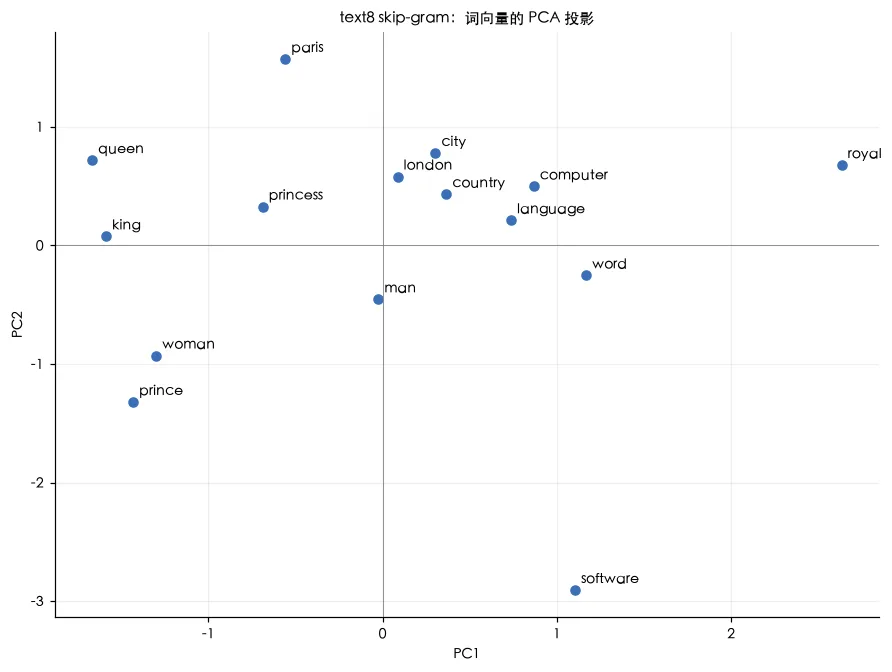
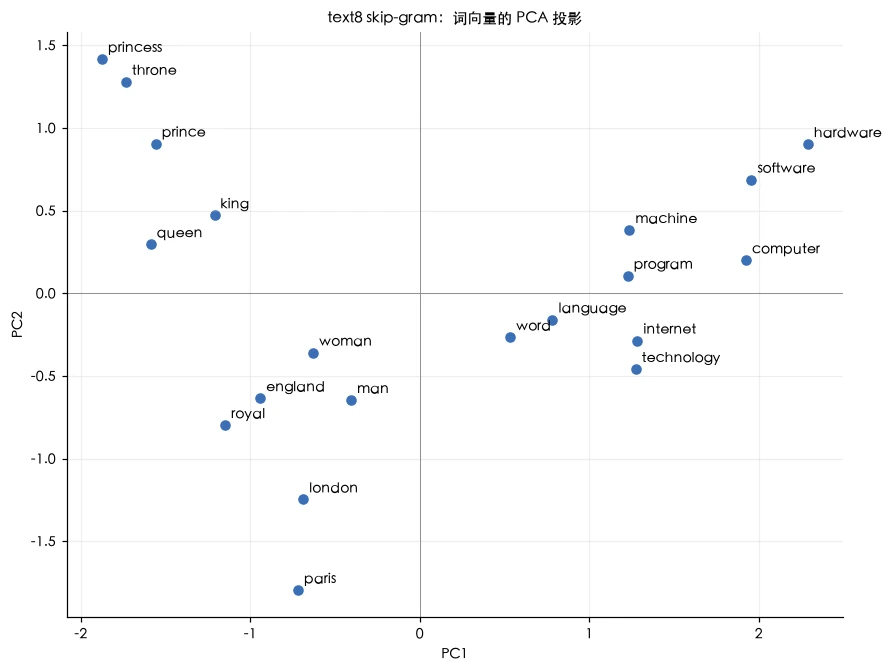
重训 Embedding 案例并更新系列资料
- 使用完整 text8 重训 Word2Vec，并同步文章、总纲、recap 与 slides
- 修正 RNN 序数引用并删除重复锚点

diff --git a/_posts/2026-03-29-deep-learning-foundations-series-recap-and-self-test.md b/_posts/2026-03-29-deep-learning-foundations-series-recap-and-self-test.md
@@ -44,7 +44,7 @@ flowchart TB
 | [第四篇：优化器](/optimizers-from-sgd-to-adamw.html) | Adam 的两个矩各做什么？AdamW 与 $$L_2$$ 为什么不一样？warmup 为什么不能省？batch 变大学习率怎么变？ | Adam 让每个参数步长 $$\approx \eta$$、与梯度大小无关，因此第一步是满步长 $$\eta \cdot \text{sign}(g)$$、必须 warmup<br/>$$L_2$$ 被 $$1/\sqrt{v}$$ 缩放而 AdamW 不被<br/>线性 scaling 在临界 batch 内成立<br/>裁剪限制步长上界 | Momentum 有效学习率 $$\times 1/(1-\beta)$$<br/>$$\beta_2 = 0.95$$ 记 20 步<br/>8 字节 / 参数，Llama-3-8B 64 GB，16 字节里的 12<br/>$$\lVert W_1 \rVert$$ 22.6 → 2.3、95.6% → 86.2%<br/>warmup：4.59 对 1.26<br/>scaling 到 512 成立、2048 发散<br/>裁剪 1.0 |
 | [第五篇：正则化与泛化](/regularization-and-generalization.html) | 参数是样本几百倍的网络为什么不过拟合？什么数据规模、多少 epoch 后会？怎么提前看到？ | 先算参数 / 数据比定体制<br/>过参数化时优化器挑最小范数、平坦、先学简单的解——隐式正则化<br/>double descent 越过插值阈值再变好<br/>预训练在数据体制里不用 dropout、一个 epoch<br/>SFT 与奖励模型把模型放回过参数化体制 | $$N/D$$：预训练 0.0005、SFT 1600、RM 160、实验 407<br/>宽度 8 测试 loss 5.48、2048 最好 14.5%<br/>wd 把 0.55 压到 0.42，dropout 0.62<br/>重复 4 epoch 以内几乎无损<br/>2 万字符第 16 epoch 拐点、记忆率 10%，20 万第 8 epoch，200 万未到 |
 | [第六篇：CNN](/cnn-from-lenet-to-resnet-and-vit.html) | 卷积的局部连接与权重共享解决什么？ResNet 如何让网络加深，ViT 又为何能去掉卷积？ | 卷积把局部性和平移等变性写进结构；残差让深度增加后仍可训练；数据足够时，ViT 可以从 patch token 学习空间关系 | plain-56 loss 0.72，残差网络 0.13；LeNet-5 61,706 参数、0.82% 错误率；224×224 图像切成 196 个 patch token |
-| [第七篇：Embedding 与表示学习](/embedding-and-representation-learning.html) | 离散 token 怎样变成可学习向量？Word2Vec 如何组织几何结构，为什么还需要上下文表示？ | embedding 是按 token id 查表；预测目标与上下文会塑造向量邻域，但静态词向量不随上下文变化 | GPT-2 small 输入表 38,597,376 参数、约占 31.0%；text8 截断语料词表 11,442，64 维 skip-gram |
+| [第七篇：Embedding 与表示学习](/embedding-and-representation-learning.html) | 离散 token 怎样变成可学习向量？Word2Vec 如何组织几何结构，为什么还需要上下文表示？ | embedding 是按 token id 查表；预测目标与上下文会塑造向量邻域，但静态词向量不随上下文变化 | GPT-2 small 输入表 38,597,376 参数、约占 31.0%；text8 全量 17,005,207 词、词表 71,290，100 维 skip-gram |
 | [第八篇：RNN](/rnn-lstm-and-the-birth-of-attention.html) | RNN 为什么记不住 20 步外的东西？遗忘门与残差什么关系？attention 为解决什么被发明、为什么取代了 RNN？ | BPTT 是同一个 $$W$$ 的连乘，训练信号传不到远处<br/>LSTM 的 $$c_t = f_t \odot c_{t-1} + i_t \odot \tilde c_t$$ 是时间上的残差，遗忘门偏置要初始化为 1<br/>attention 为绕过 seq2seq 的固定向量瓶颈而生，然后人们发现循环可以不要 | $$J_k = \text{diag}(1 - h_k^2) W$$<br/>20 步外千分之四、60 步外 $$10^{-10}$$<br/>RNN 10 步失败<br/>$$0.5^{20} \approx 10^{-6}$$、$$\sigma(1) = 0.73$$<br/>倒序 16 token 整句 0% → 76%<br/>attention 算力 4.5 倍<br/>$$O(T^2 d)$$ 对 $$O(T d^2)$$ |
 
 Table: 八篇的核心问题、结论与必记公式
@@ -59,7 +59,7 @@ Table: 八篇的核心问题、结论与必记公式
 | 四 | 四种优化器 × 五个学习率；64 层网络 warmup | 最优 lr 差 300 倍、成绩差不到半个点；1e-2 无 warmup 冲到 4.59 | Kingma & Ba 2014 Algorithm 1 |
 | 五 | 1,000 张图的过拟合；宽度扫描 | 测试 loss 0.40 → 0.55 而准确率不动；double descent 尖峰在宽度 8–16 | Srivastava 2014 dropout；Nakkiran 2019 |
 | 六 | 复现 LeNet-5 | 61,706 个参数、5 个 epoch、0.82% | LeNet-5、AlexNet、VGG 表、ResNet 残差块 / bottleneck、ViT |
-| 七 | text8 截断语料上的 skip-gram negative sampling | 词表 11,442、64 维、1,500 步、CPU 5.6 秒 | Word2Vec / negative sampling |
+| 七 | 完整 text8 上的 skip-gram negative sampling | 17,005,207 词、71,290 词表、subsampling 后 5,597,324 词；100 维、3 epochs、CPU 310 秒 | Word2Vec / negative sampling |
 | 八 | 字符级 LSTM 写莎士比亚 | 与 nanoGPT 同预算 val 1.71 vs 1.66 | Graves 2013 展开 RNN / LSTM 细胞<br/>Sutskever 2014<br/>Bahdanau 2015 结构与对齐 |
 
 Table: 八个案例与原论文图一览
@@ -186,8 +186,8 @@ Table: 本文的章节安排
 **必记**：
 
 - GPT-2 small 的输入 embedding 表为 $$50{,}257\times768=38{,}597{,}376$$ 个参数，约占模型参数的 31.0%；输入与输出词表矩阵是否共享取决于具体模型。
-- text8 前 750,000 个词构成 11,442 词词表；64 维 skip-gram、窗口 ±2、5 个负样本训练 1,500 步，CPU 用时约 5.6 秒。
-- 报告训练前随机初始化与训练后近邻；类比计算排除原词，截断语料结果不一定得到 `queen`。二维 PCA 只是投影，不保留全部高维距离关系。
+- 完整 text8 共 17,005,207 词；`min_count=5` 后词表 71,290，频率抽样后保留 5,597,324 词；100 维 skip-gram、动态窗口 1–5、5 个负样本，3 epochs 共 6,153 步，CPU 310.0 秒。
+- computer 的五个近邻包括 computers、machines、computing、hardware、software；`king - man + woman` 排除输入词后得到 montferrat、widowed、matilda、daughter、eschiva，没有得到 `queen`。这是这一语料与训练设置下的结果，不代表普遍语义规律；二维 PCA 不保留全部高维距离关系。
 
 **常见误解**："Embedding 就是 one-hot 的压缩编码"——它是由训练目标更新的参数表，几何关系取决于上下文目标。"词向量里的 king − man + woman 必然等于 queen"——类比是训练语料、词频、训练目标与超参数共同造成的经验规律，不是代数恒等式。
 
@@ -544,7 +544,7 @@ Table: 掌握程度的判据
 
    <details markdown="1"><summary>答案</summary>
 
-   Word2Vec 为每个词保存一组固定向量，Transformer 的 token 表示还依赖当前上下文。类比结果取决于语料、词频、训练步数与目标；本案例使用截断 text8，只训练 1,500 步，排除原词后结果是 `reign` 而非 `queen`，是受限实验而非普遍规律。
+   Word2Vec 为每个词保存一组固定向量，Transformer 的 token 表示还依赖当前上下文。类比结果取决于语料、词频、训练步数与目标；本案例使用完整 text8 训练 3 epochs，排除原词后返回 montferrat 等词而非 `queen`，是特定实验结果而非普遍规律。
 
    </details>
 
@@ -574,5 +574,5 @@ Table: 掌握程度的判据
 
 
 [^q0]: 八个问题：怎样手推两层网络反向传播并说出 $$6ND$$ 与激活为什么要存；sigmoid、ReLU 与门控激活怎样改变梯度；初始化 / 归一化 / 残差各修连乘哪一环；Adam 的矩、warmup 与 batch scaling；参数比样本多时何时泛化、何时过拟合；卷积为何能用更少参数表达局部结构；token id 怎样成为静态或上下文表示；RNN 为什么记不住、attention 如何从 seq2seq 瓶颈中诞生。详见[第二章](#二逐篇回顾)。
-[^q1]: $$\partial L/\partial W = X^T G$$、$$6ND$$、$$8ND$$；sigmoid 导数上限 0.25、$$0.25^{10}\approx9.54\times10^{-7}$$、三 seed 的 20 层激活对照；GPT-2 small embedding 表 38,597,376 个参数、约占 31.0%，text8 词表 11,442；$$\text{Var}(y) = n_{in}\sigma_w^2\text{Var}(x)$$、Kaiming $$2/n_{in}$$、$$2^{-32}$$、$$0.9^{128} \approx 10^{-6}$$；残差 $$I + J$$、$$1/\sqrt{2L}$$；Adam 第一步 $$\eta \cdot \text{sign}(g)$$、$$\beta_2 = 0.95$$ 记 20 步、8 字节 / 参数；$$N/D$$ 0.0005 对 1600；ResNet-50 25.6M / 8.2 GFLOPs；BPTT 20 步千分之四、$$b_f = 1$$、倒序 0% → 76%。详见[第一章](#一总览系列回答的问题与主线)、[第三章](#三贯穿全系列的几条线)。
+[^q1]: $$\partial L/\partial W = X^T G$$、$$6ND$$、$$8ND$$；sigmoid 导数上限 0.25、$$0.25^{10}\approx9.54\times10^{-7}$$、三 seed 的 20 层激活对照；GPT-2 small embedding 表 38,597,376 个参数、约占 31.0%，完整 text8 词表 71,290、向量维度 100；$$\text{Var}(y) = n_{in}\sigma_w^2\text{Var}(x)$$、Kaiming $$2/n_{in}$$、$$2^{-32}$$、$$0.9^{128} \approx 10^{-6}$$；残差 $$I + J$$、$$1/\sqrt{2L}$$；Adam 第一步 $$\eta \cdot \text{sign}(g)$$、$$\beta_2 = 0.95$$ 记 20 步、8 字节 / 参数；$$N/D$$ 0.0005 对 1600；ResNet-50 25.6M / 8.2 GFLOPs；BPTT 20 步千分之四、$$b_f = 1$$、倒序 0% → 76%。详见[第一章](#一总览系列回答的问题与主线)、[第三章](#三贯穿全系列的几条线)。
 [^q2]: 用第五章的三段自测：A 组 10 题判断与计算（至少 8 题）、B 组 5 题跨篇综合（至少 4 题）、C 组 7 道面试题（每题说出一半以上要点）；E 组用 4 题检查激活函数与 Embedding（每篇至少 1 题）；D 组的表给出"读过 / 掌握 / 能教人"三级的表现。详见[第五章](#五通关自测)。

diff --git a/_posts/2026-03-23-deep-learning-foundations.md b/_posts/2026-03-23-deep-learning-foundations.md
@@ -113,7 +113,7 @@ Table: 八篇正文的主题与内容
 | 线索 | 从第一篇到第八篇 |
 |---|---|
 | 推导线 | 链式法则 → 激活导数改变梯度 → Jacobian 乘积与谱范数 → 更新量的量级 → 期望等价与先验 → 卷积线性算子 → embedding 查表与分布式词向量 → 时间反传 |
-| 数字线 | 反向 FLOPs = 2 × 前向 → sigmoid 首层梯度 $$3.94\times10^{-10}$$、20 层 SiLU 测试准确率 92.88% → $$0.9^{128}$$ → 每参数 8 字节 → 一个 epoch 就够 → ResNet-50 的 4.1 GFLOPs → text8 词表 11,442、向量维度 64 → RNN 不能并行 |
+| 数字线 | 反向 FLOPs = 2 × 前向 → sigmoid 首层梯度 $$3.94\times10^{-10}$$、20 层 SiLU 测试准确率 92.88% → $$0.9^{128}$$ → 每参数 8 字节 → 一个 epoch 就够 → ResNet-50 的 4.1 GFLOPs → text8 17,005,207 词、71,290 词表、100 维 → RNN 不能并行 |
 | LLM 线 | 6ND · 激活重算 → SwiGLU · GELU → RMSNorm · Pre-Norm · 0.02 → AdamW · warmup · 裁剪到 1.0 → 预训练不用 dropout → ViT / patch → GPT-2 embedding 参数占 31.0% · 上下文表示 → attention → Transformer |
 
 Table: 贯穿八篇的三条线索
@@ -249,13 +249,13 @@ Table: 贯穿八篇的三条线索
 - GPT-2 small 的输入 embedding 表有 38,597,376 个参数，占模型参数约 31.0%；输入与输出词表矩阵是否共享；
 - skip-gram、CBOW、full softmax 与 negative sampling；用二维例子手算正负样本更新；
 - SGNS 与 shifted PMI 的关系、静态词向量的能力边界，以及表示从预测、重建到对比学习的发展；
-- text8 截断语料上的 CPU Word2Vec 案例：比较随机初始化与训练后近邻、排除原词后的类比，并用 PCA 投影向量。
+- 完整 text8 上的 CPU Word2Vec 案例：比较随机初始化与训练后近邻、排除原词后的类比，并用 PCA 投影向量。
 
 核心问题是：
 
 > **一个整数 token 怎样变成可学习的向量？Word2Vec 的邻居与类比从何而来，为什么现代 Transformer 还需要上下文表示？**
 
-实验：在 text8 前 750,000 个词上训练 64 维 skip-gram negative sampling，保留 11,442 个词，训练 1,500 步；对照随机初始化近邻与训练后近邻，并把选定词向量投影到二维 PCA 平面。
+实验：在完整 text8 的 17,005,207 个词上训练 100 维 skip-gram negative sampling；`min_count=5` 后词表 71,290，频率抽样后保留 5,597,324 个词。窗口半径 1–5、5 个负样本、3 个 epoch 共 6,153 步，CPU 耗时 310.0 秒；对照随机初始化近邻与训练后近邻，并把选定词向量投影到二维 PCA 平面。
 
 ### 8. RNN：从 LSTM 到 attention 的诞生
 
@@ -309,7 +309,7 @@ Table: 各篇在 NumPy 小框架里加的东西
 | 第四篇 | 同一个 MLP，四种优化器 × 五个学习率；64 层网络的 warmup | 最优学习率差 300 倍、成绩差不到半个点；lr 1e-2 无 warmup loss 冲到 4.59 |
 | 第五篇 | 1,000 张图的过拟合与三种解药；宽度扫描 | 训练 loss 归零、测试 loss 掉头；double descent 的尖峰在宽度 8–16 |
 | 第六篇 | 复现 LeNet-5 | 61,706 个参数、5 个 epoch、0.82%——MLP 参数的 1/3、错误率的 1/3；第一层学出边缘检测器 |
-| 第七篇 | text8 前 750,000 个词的 skip-gram negative sampling | 词表 11,442、向量维度 64；随机初始化与训练后近邻对照，类比排除输入词，附二维 PCA |
+| 第七篇 | 完整 text8 的 skip-gram negative sampling | 17,005,207 个词；`min_count=5` 后词表 71,290，subsampling 后 5,597,324 个词；100 维、3 epochs、CPU 310 秒 |
 | 第八篇 | 字符级 LSTM 写莎士比亚，与 nanoGPT 同预算 | val 1.71 vs 1.66；倒序任务的对齐矩阵 |
 
 Table: 各篇的案例
@@ -344,7 +344,7 @@ Table: 各篇平行的论文与资料阅读线
 
 ### 版本与基线
 
-- 实验基线：第一至五篇用 MNIST（几万样本、几十万到几百万参数的 MLP 与小卷积网络），第四篇的语言模型用 Python 标准库源码做字符级语料，第七篇用官方 text8 语料的截断片段，第八篇用合成的序列任务；所有数字在普通笔记本 CPU 上几分钟到十几分钟内可复现；
+- 实验基线：第一至五篇用 MNIST（几万样本、几十万到几百万参数的 MLP 与小卷积网络），第四篇的语言模型用 Python 标准库源码做字符级语料，第七篇用官方完整 text8 语料，第八篇用合成的序列任务；所有数字在普通笔记本 CPU 上几分钟到十几分钟内可复现；
 - 配套代码：每篇一个脚本，连同系列贯穿的迷你框架 `dlf/` 与作者机器上的运行输出，在 [ai-learning-labs/deep-learning-foundations](https://github.com/arganzheng/ai-learning-labs/tree/main/deep-learning-foundations)；
 - 算账时引用的真实网络：ResNet-50（25.6M 参数）、GPT-2（124M 到 1.5B，$$\sqrt{2L}$$ 初始化缩放）、Llama-3-8B（32 层、初始化标准差 0.02、AdamW $$\beta_2 = 0.95$$、weight decay 0.1、裁剪 1.0），超参数取自公开论文与技术报告；
 - 论文引用以第一作者与年份标注。

diff --git a/slides/2026-03-29-deep-learning-foundations.md b/slides/2026-03-29-deep-learning-foundations.md
@@ -203,10 +203,10 @@ flowchart TB
 
 **结论**：one-hot 矩阵乘法等价于 embedding 表查一行；梯度只更新被访问的行。Word2Vec 从上下文预测目标或从目标预测上下文，使向量几何反映共现关系；Transformer 则让表示随上下文变化。
 
-![text8 截断语料训练后选定词向量在二维 PCA 平面上的投影](/img/in-post/embedding-word2vec.webp){: style="max-height: 380px"}
+![完整 text8 训练后选定的 100 维词向量在二维 PCA 平面上的投影](/img/in-post/embedding-word2vec.webp){: style="max-height: 380px"}
 
 <aside class="notes" markdown="1">
-原文 /embedding-and-representation-learning.html。text8 前 750,000 个词、词表 11,442、64 维、窗口 ±2、5 个负样本、1,500 步；CPU 5.6 秒。随机初始化近邻与训练后近邻并列，类比排除输入词，结果不宣称普遍语义规律。
+原文 /embedding-and-representation-learning.html。完整 text8 17,005,207 词，`min_count=5` 后词表 71,290；subsampling 后 5,597,324 词，100 维、动态窗口 1–5、5 个负样本、3 epochs、batch 16,384，共 6,153 步；CPU 310.0 秒。随机初始化近邻与训练后近邻并列，类比排除输入词，结果不宣称普遍语义规律。
 </aside>
 
 <!-- v -->
@@ -214,8 +214,8 @@ flowchart TB
 ### 参数账与实验读数
 
 - GPT-2 small 输入 embedding：50,257 × 768 = 38,597,376 个参数，占模型约 31.0%
-- 训练后 `king` 的近邻是 `ii / rd / iii`；`king - man + woman` 排除输入词后给出 `reign`，没有命中 `queen`
-- 这组结果是截断语料与短训练的演示；PCA 展示投影，不代表高维距离被完整保留
+- 训练后 `computer` 的近邻包括 `computers / machines / computing / hardware / software`；`king - man + woman` 排除输入词后没有命中 `queen`
+- 完整语料训练仍不保证每个类比都命中预期词；PCA 展示投影，不代表高维距离被完整保留
 
 ---
 
